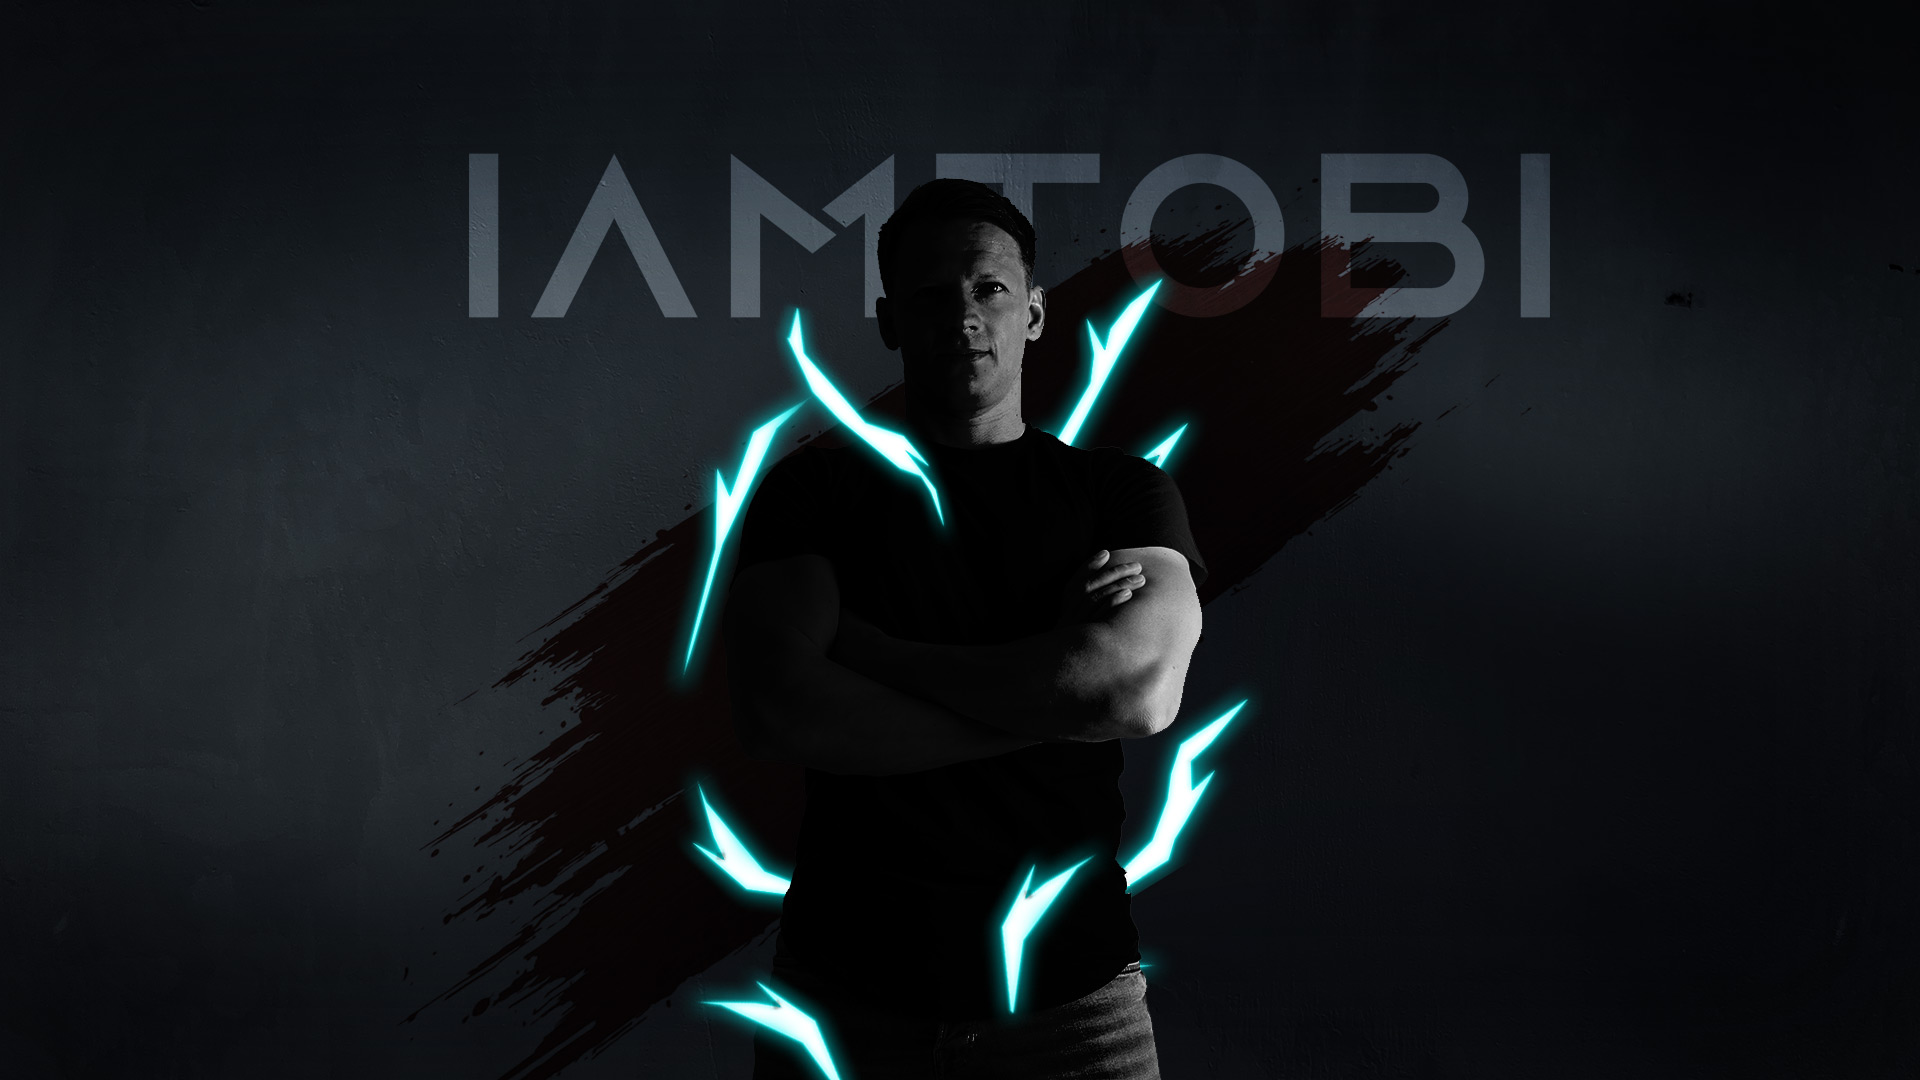
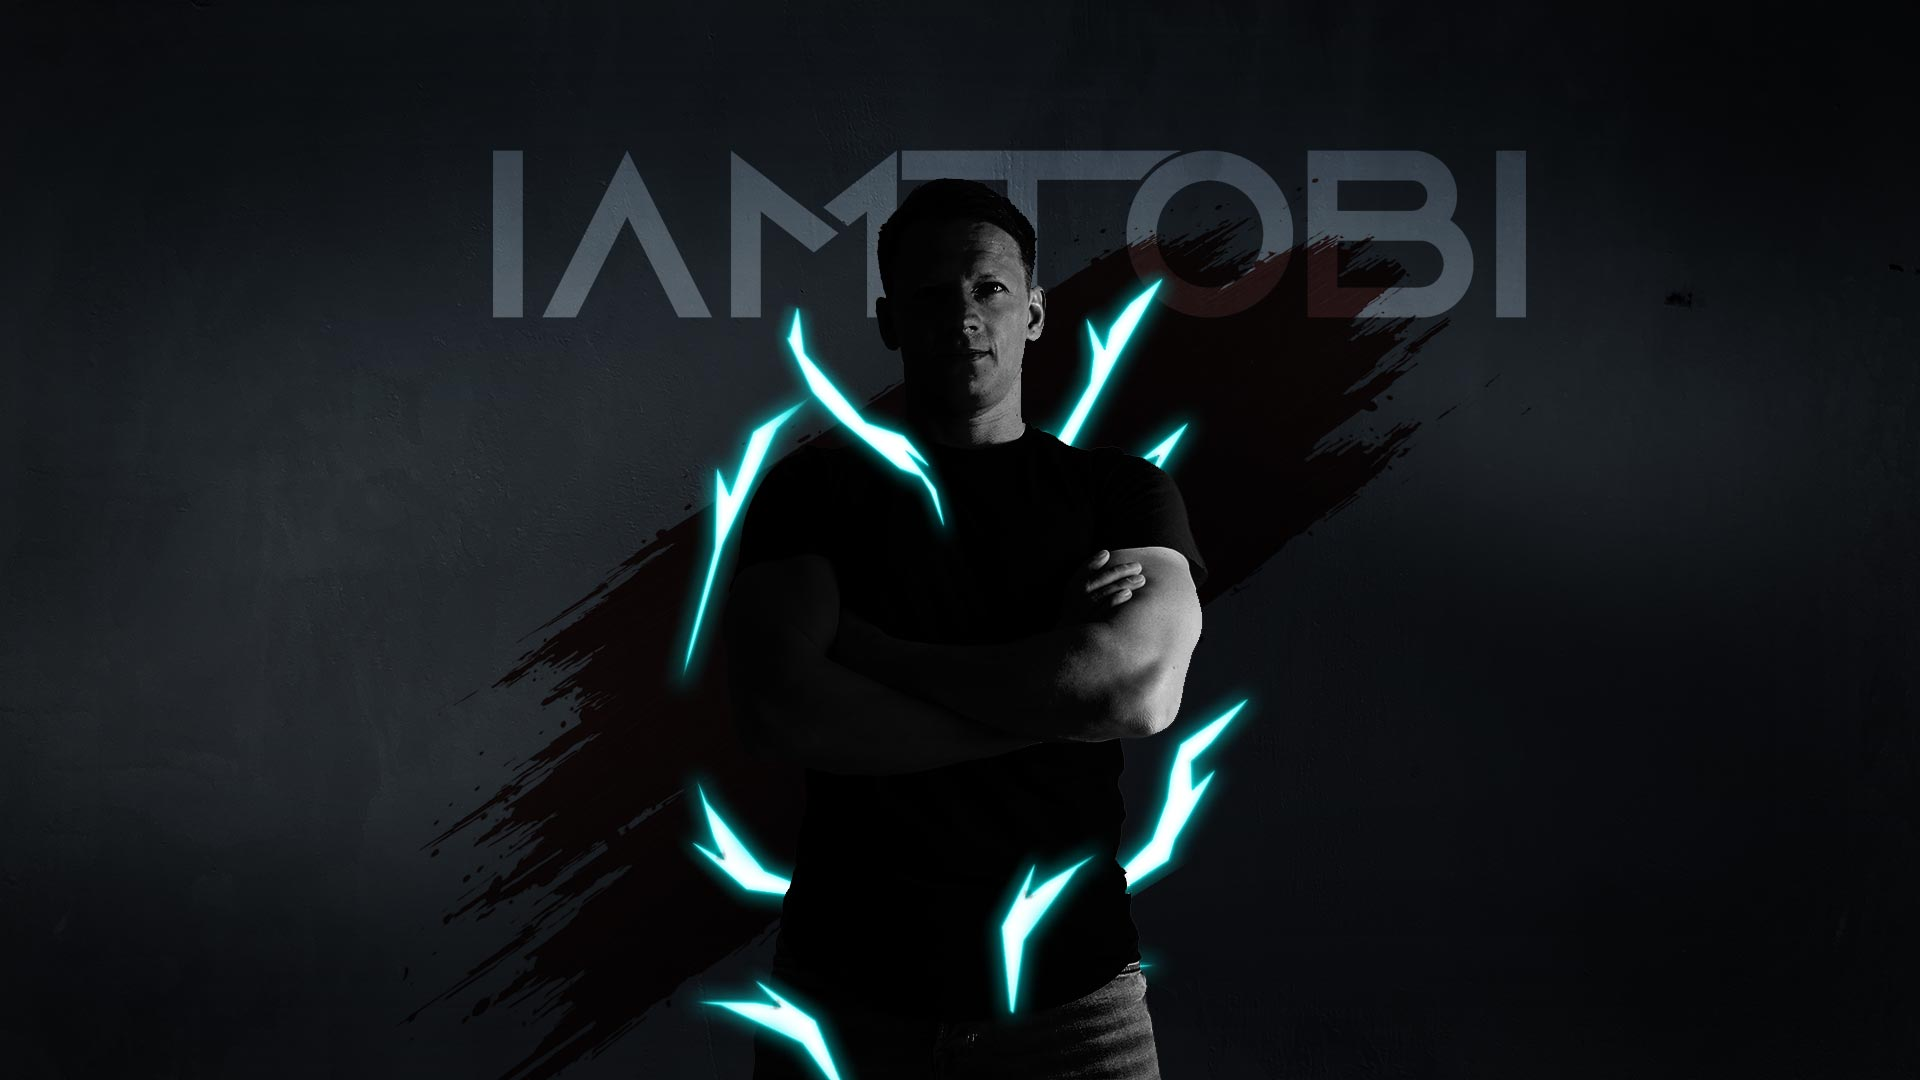
fix css

diff --git a/css/app.css b/css/app.css
@@ -53,8 +53,8 @@
   }
 
   :root {
-    --highlightBlue: #3da6a8;
-    --highlightRed: #722f46;
+    --highlightBlue: #009498;
+    --highlightRed: #4f0013;
   }
 
  nav ul li a:hover, .forgot-password a span:hover,
@@ -147,6 +147,7 @@ section {
 
 .jumbo {
     padding:0;
+    height:100vh;
 }
 
 .space-top {
